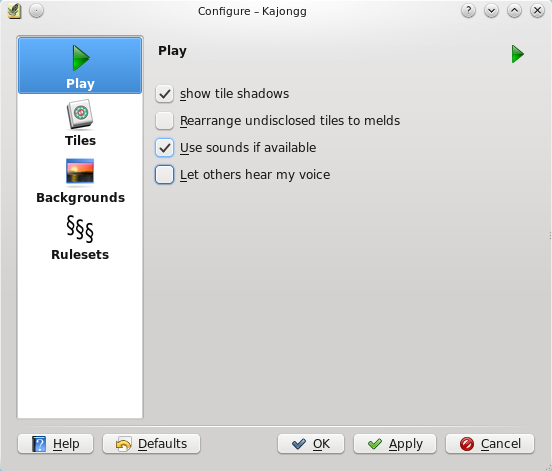
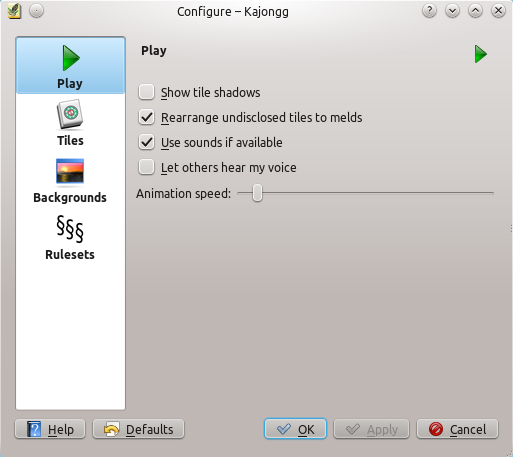
make animation speed configurable
git-svn-id: svn+ssh://svn.kde.org/home/kde/trunk/KDE/kdegames@1190583 283d02a7-25f6-0310-bc7c-ecb5cbfe19da

diff --git a/kajongg/src/playfield.py b/kajongg/src/playfield.py
@@ -22,7 +22,7 @@ import sys
 import os
 from util import logMessage, m18n, m18nc, isAlive
 import common
-from common import WINDS, LIGHTSOURCES, InternalParameters
+from common import WINDS, LIGHTSOURCES, InternalParameters, PREF
 import cgitb, tempfile, webbrowser
 
 class MyHook(cgitb.Hook):
@@ -48,7 +48,7 @@ try:
     from PyQt4.QtGui import QWidget
     from PyQt4.QtGui import QGridLayout
     from PyQt4.QtGui import QDialogButtonBox
-    from PyQt4.QtGui import QComboBox
+    from PyQt4.QtGui import QComboBox, QSlider, QHBoxLayout, QLabel
     from PyQt4.QtGui import QVBoxLayout, QSpacerItem, QSizePolicy, QCheckBox
 except ImportError, e:
     NOTFOUND.append('Package python-qt4: PyQt4: %s' % e)
@@ -104,10 +104,17 @@ class PlayConfigTab( QWidget):
     def setupUi(self):
         """layout the window"""
         vlayout = QVBoxLayout(self)
+        sliderLayout = QHBoxLayout()
         self.kcfg_showShadows = QCheckBox(m18n('Show tile shadows'), self)
         self.kcfg_showShadows.setObjectName('kcfg_showShadows')
         self.kcfg_rearrangeMelds = QCheckBox(m18n('Rearrange undisclosed tiles to melds'), self)
         self.kcfg_rearrangeMelds.setObjectName('kcfg_rearrangeMelds')
+        self.kcfg_animationSpeed = QSlider(self)
+        self.kcfg_animationSpeed.setObjectName('kcfg_animationSpeed')
+        self.kcfg_animationSpeed.setOrientation(Qt.Horizontal)
+        self.kcfg_animationSpeed.setSingleStep(1)
+        sliderLayout.addWidget(QLabel(m18n('Animation speed:')))
+        sliderLayout.addWidget(self.kcfg_animationSpeed)
         self.kcfg_useSounds = QCheckBox(m18n('Use sounds if available'), self)
         self.kcfg_useSounds.setObjectName('kcfg_useSounds')
         self.kcfg_uploadVoice = QCheckBox(m18n('Let others hear my voice'), self)
@@ -120,6 +127,7 @@ class PlayConfigTab( QWidget):
         vlayout.addWidget(self.kcfg_rearrangeMelds)
         vlayout.addWidget(self.kcfg_useSounds)
         vlayout.addWidget(self.kcfg_uploadVoice)
+        vlayout.addLayout(sliderLayout)
         vlayout.addItem(spacerItem)
         self.setSizePolicy(pol)
         self.retranslateUi()
@@ -382,7 +390,7 @@ class ParallelAnimationGroup(QParallelAnimationGroup):
     call a Deferred callback when done"""
     def __init__(self, animations, deferred, parent=None):
         QParallelAnimationGroup.__init__(self, parent)
-        self.duration = 800
+        self.duration = PREF.animationSpeed * 100 / 4
         for animation in animations:
             self.connect(animation, SIGNAL('finished()'), self.animationFinished)
             animation.setDuration(self.duration)
@@ -460,7 +468,6 @@ class PlayField(KXmlGuiWindow):
         self.tableLists = []
         self.animations = []
         self.animationGroups = []
-        self.animating = True
         self.animationsDone = 0
         self.setupUi()
         KStandardAction.preferences(self.showSettings, self.actionCollection())

diff --git a/kajongg/src/tile.py b/kajongg/src/tile.py
@@ -23,7 +23,7 @@ from PyQt4.QtGui import QGraphicsRectItem, QGraphicsItem, QPixmap, QPainter
 from PyQt4.QtGui import QColor, QPen, QBrush, QStyleOptionGraphicsItem
 from PyQt4.QtSvg import QGraphicsSvgItem
 from util import logException
-from common import LIGHTSOURCES, InternalParameters
+from common import LIGHTSOURCES, InternalParameters, PREF
 
 def chiNext(element, offset):
     """the element name of the following value"""
@@ -237,7 +237,7 @@ class Tile(QGraphicsSvgItem):
      #   newRotation = newBoard.sceneRotation()
         #print self,'newboard:', newBoard.name(), 'with rotation', newRotation,
         #newBoard.parentItem(), newBoard.parentObject()
-        if animate and InternalParameters.field.animating and self.__prevBoard:
+        if animate and PREF.animationSpeed and self.__prevBoard:
             if self.__prevBoard is None:
                 startPos = self.mapFromScene(QPointF(0.0, 0.0)) # TODO: random?
             elif self.__prevBoard != newBoard:

diff --git a/kajongg/src/config.py b/kajongg/src/config.py
@@ -101,6 +101,7 @@ class Preferences(KConfigSkeleton):
         self.addInteger('Network', 'serverPort', 8149)
         self.addBool('Display', 'showShadows', True)
         self.addBool('Display', 'rearrangeMelds', False)
+        self.addInteger('Display', 'animationSpeed', 20, 0, 99)
         self.addBool('Display', 'useSounds', True)
         self.addBool('Display', 'uploadVoice', False)
 
